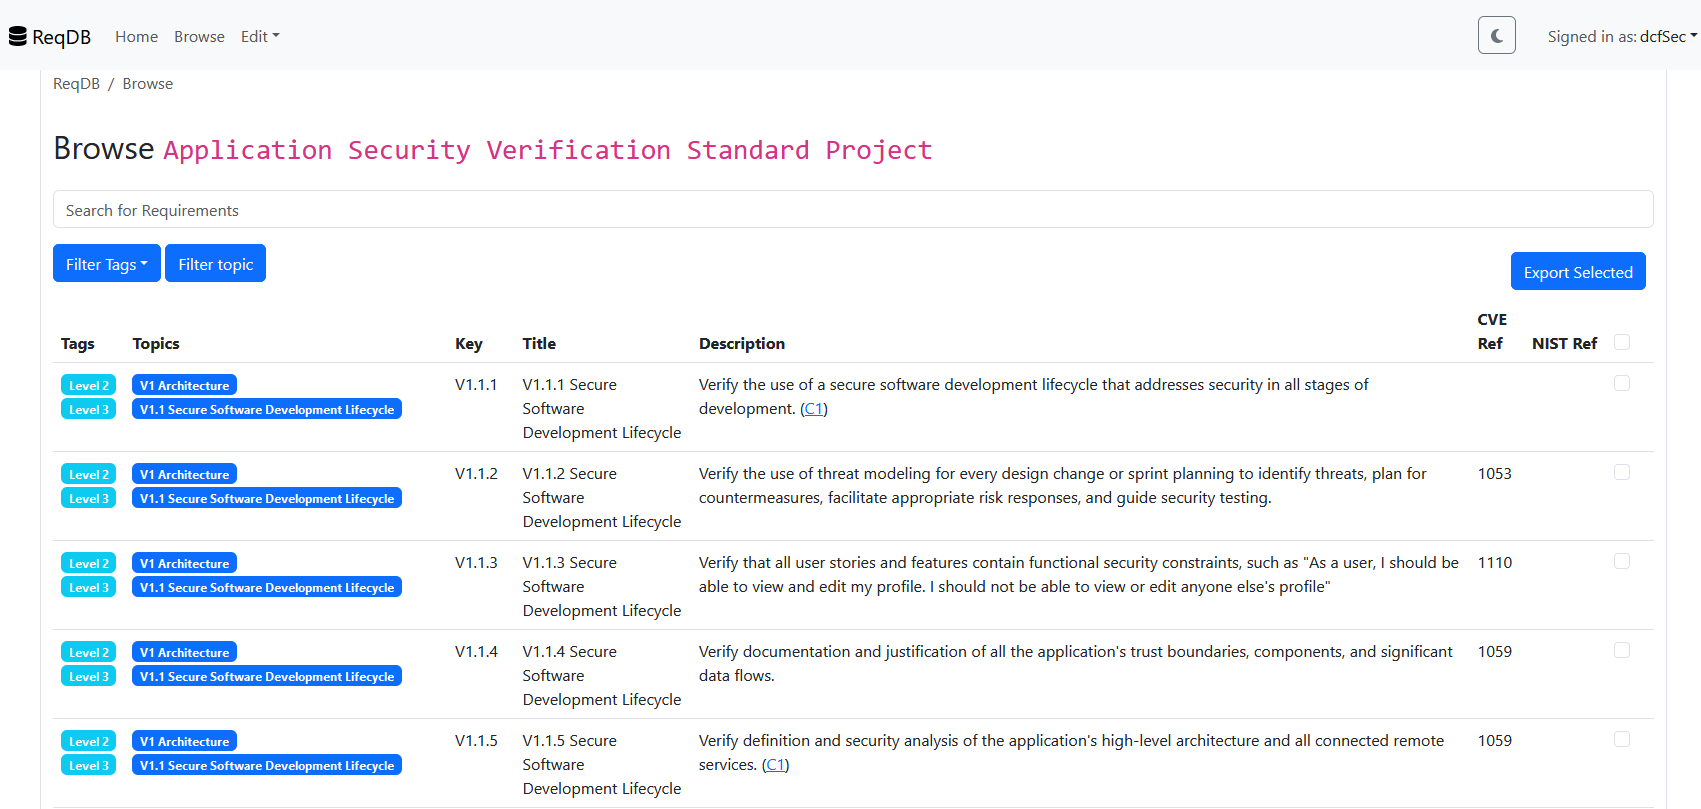
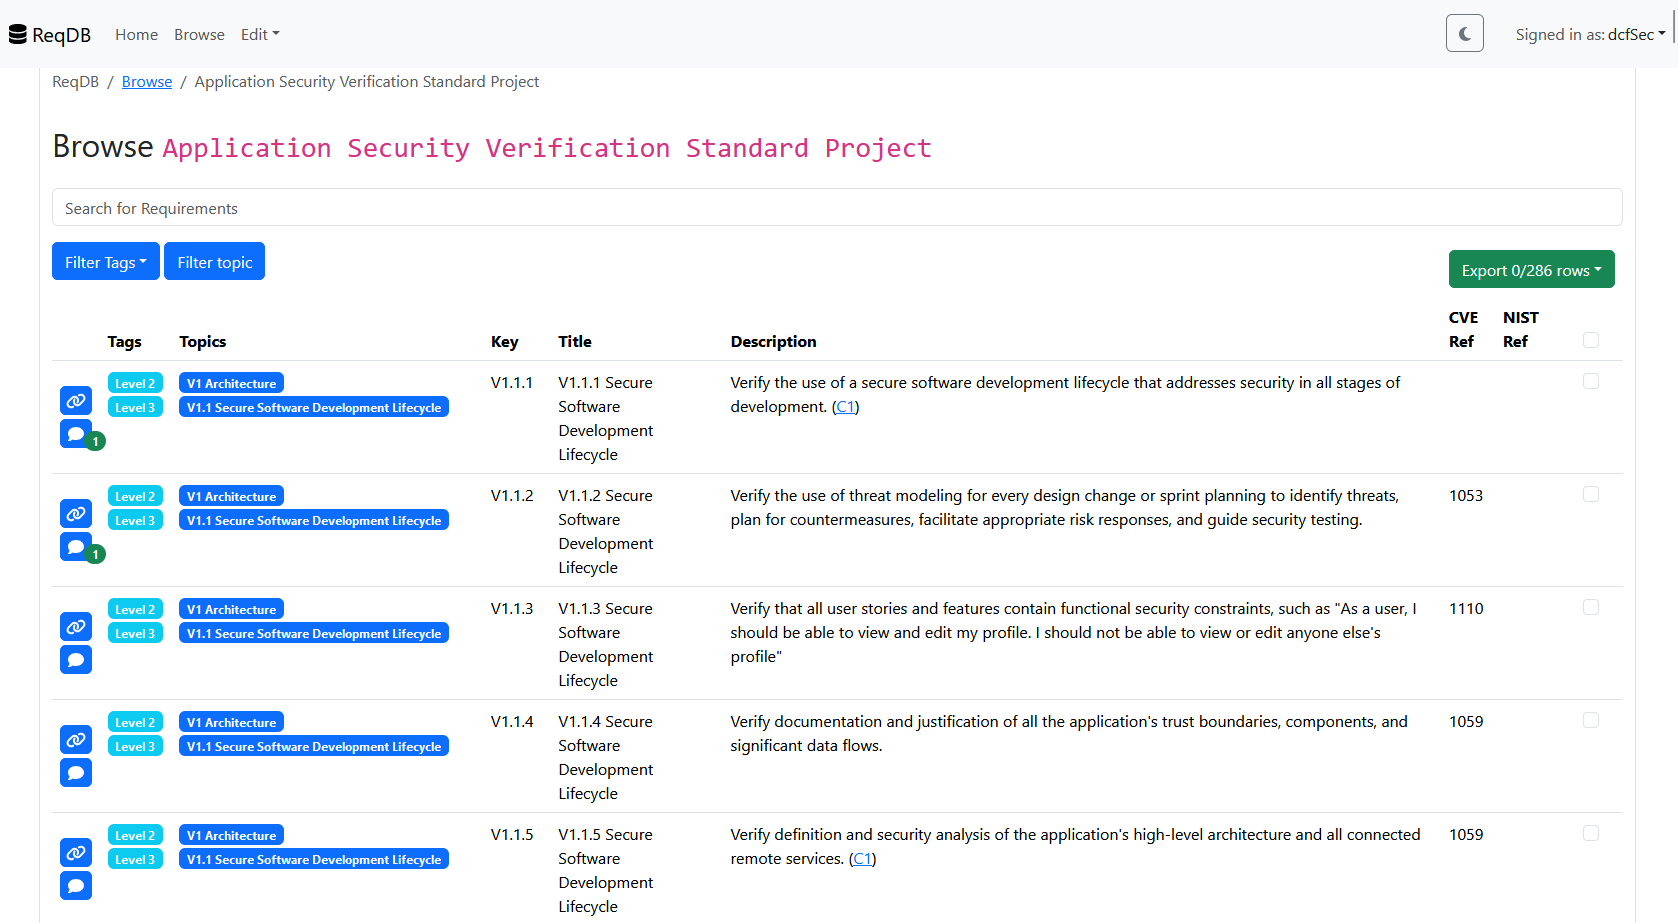
Updates readme

diff --git a/README.md b/README.md
@@ -1,11 +1,13 @@
 # ReqDB
 ReqDB is a lightweight web application for managing requirements. ReqDB helps to efficiently manage, edit and view requirement catalogues.
 
-ReqDB is built in Flask and React. Authentication and Authorization is done via oauth and Azure Entra is currenctly supported as IDP.
+ReqDB is built in Flask and React. Authentication and Authorization is done via oauth and Azure Entra is currently supported as IDP.
 
-Each *requirement* is the children of a *topic*. A *topic* can have again a *topic* as a parent. For viewing the *requirements* the *topics* are bundled into *cataloges*. For filtering and *tags* are available. *Tags* can be assigned to any *requirement*. *Requirements* can have *extraFields*
+Each *requirement* is the children of a *topic*. A *topic* can have again a *topic* as a parent. For viewing the *requirements* the *topics* are bundled into *catalogues*. For filtering and *tags* are available. *Tags* can be assigned to any *requirement*. *Requirements* can have *extraFields*
 
-The selected requirements can be exported as (currently) an excel file.
+When a user has the `Comments.Writer` they can add comments to requirements in the browse view.
+
+The selected requirements can be exported as (currently) an excel, json or yaml file.
 
 ## Screenshots
 
